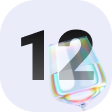
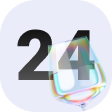
fix

Changed region(s): [[0.5089, 0.2411, 0.8571, 0.7232], [0.1339, 0.2411, 0.4821, 0.7232]]

diff --git a/src/App.tsx b/src/App.tsx
@@ -39,7 +39,7 @@ export const App = () => {
   return (
     <>
       <div className={appSt.container}>
-        <img src={alfaOnly} width={158} height={33} className={appSt.img} />
+        <img src={alfaOnly} width={158} height={38} className={appSt.img} />
         <Typography.Text style={{ marginBottom: '1rem' }} view="primary-medium">
           Перейдите на новый уровень
         </Typography.Text>
@@ -63,7 +63,15 @@ export const App = () => {
         </div>
 
         <Typography.Text view="primary-medium">
-          <b>Сохраните 20%</b> с подпиской на год
+          {selected === 'На 1 месяц' ? (
+            <>
+              <b>Сохраните 20%</b> с подпиской на год
+            </>
+          ) : (
+            <>
+              <b>Сохраните 20%</b> с подпиской при оплате за год
+            </>
+          )}
         </Typography.Text>
 
         <div className={appSt.box}>
@@ -74,10 +82,10 @@ export const App = () => {
             <PureCell.Content>
               <PureCell.Main>
                 <Typography.Text view="primary-medium" tag="p" defaultMargins={false}>
-                  12 визитов в бизнес-залы и рестораны в год
+                  24 визита в бизнес-залы и рестораны в год
                 </Typography.Text>
                 <Typography.Text view="primary-small" color="secondary">
-                  Не чаще 2 раз в месяц
+                  Не чаще 8 раз в месяц
                 </Typography.Text>
               </PureCell.Main>
             </PureCell.Content>
@@ -89,10 +97,10 @@ export const App = () => {
             <PureCell.Content>
               <PureCell.Main>
                 <Typography.Text view="primary-medium" tag="p" defaultMargins={false}>
-                  2 поездки
+                  12 поездок на такси в год
                 </Typography.Text>
-                <Typography.Text view="primary-medium" tag="p" defaultMargins={false}>
-                  на такси в год
+                <Typography.Text view="primary-small" color="secondary">
+                  Не чаще 2 раз в месяц
                 </Typography.Text>
               </PureCell.Main>
             </PureCell.Content>
@@ -122,10 +130,10 @@ export const App = () => {
           hint="Подключить"
         >
           {selected === 'На 1 месяц' ? (
-            '5 000 ₽ в месяц'
+            '10 000 ₽ в месяц'
           ) : (
             <>
-              <s>60 000 ₽</s> <span style={{ color: '#FFD57B' }}>48 000 ₽ на год</span>
+              <s>120 000 ₽</s> <span style={{ color: '#FFD57B' }}>96 000 ₽ на год</span>
             </>
           )}
         </ButtonMobile>
@@ -138,7 +146,7 @@ export const App = () => {
         }}
         contentClassName={appSt.btmContent}
         actionButton={
-          <ButtonMobile block view="primary" onClick={() => setShowBs(false)}>
+          <ButtonMobile shape="rounded" block view="primary" onClick={() => setShowBs(false)}>
             Понятно
           </ButtonMobile>
         }

diff --git a/src/style.css.ts b/src/style.css.ts
@@ -25,7 +25,7 @@ const box = style({
   display: 'flex',
   padding: '12px',
   flexDirection: 'column',
-  gap: '12px',
+  gap: '24px',
   borderRadius: '2rem',
   backgroundColor: '#fff',
 });
